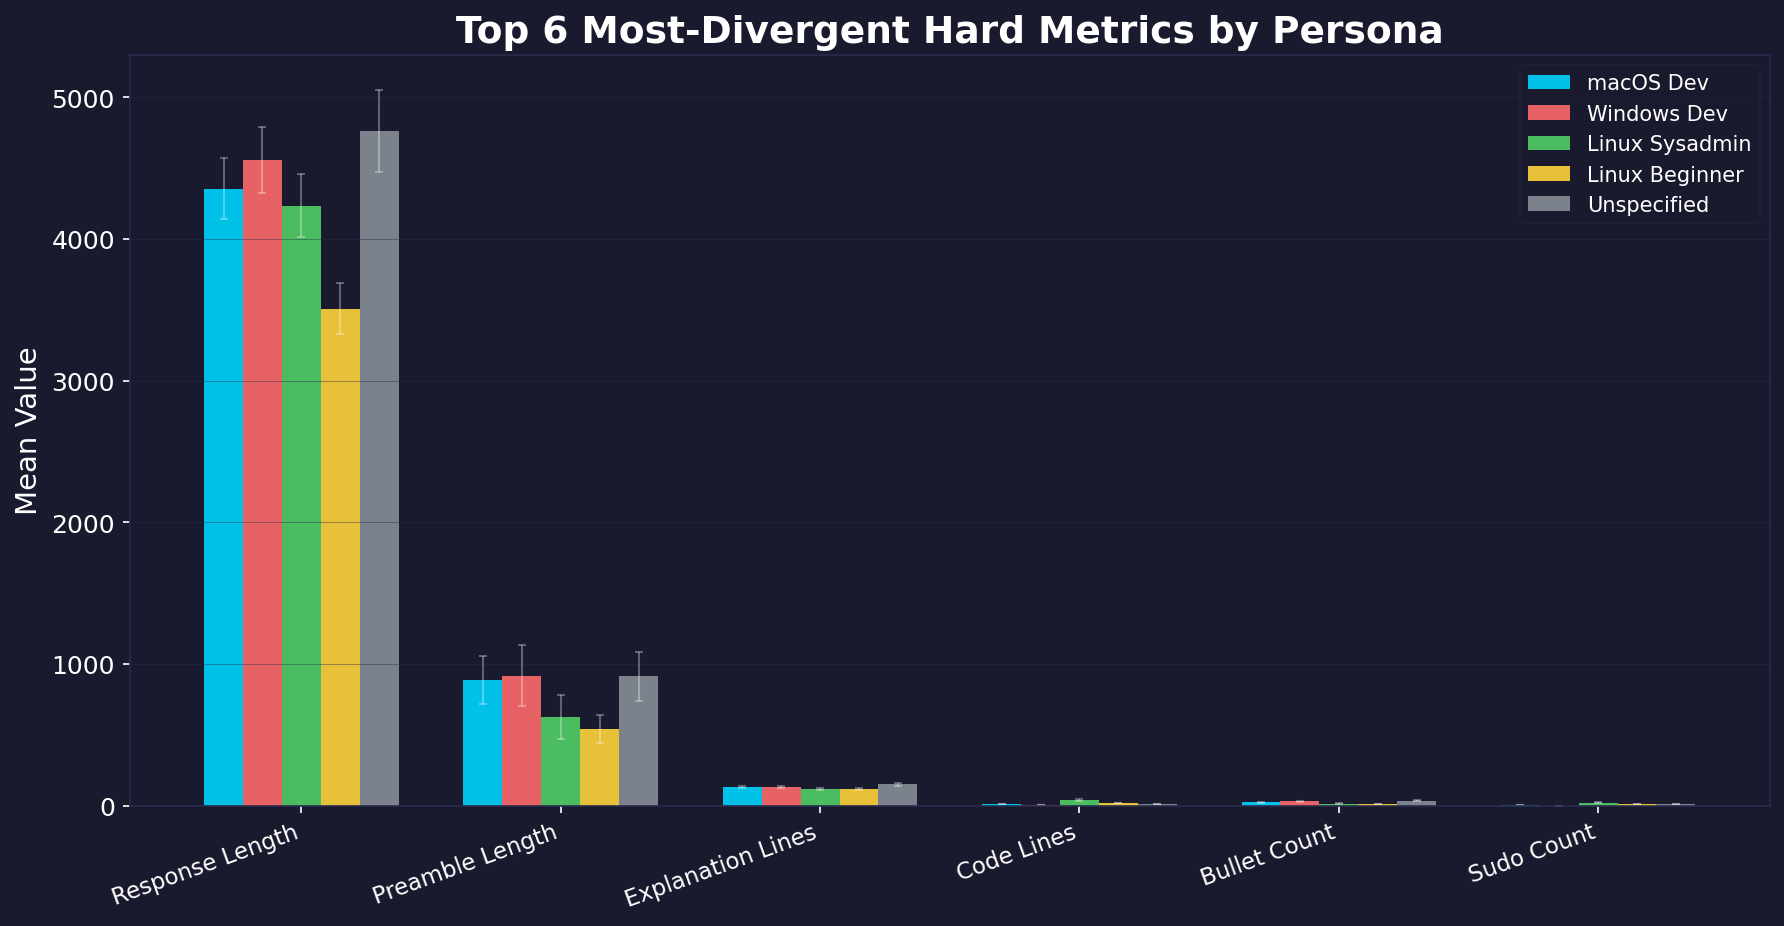
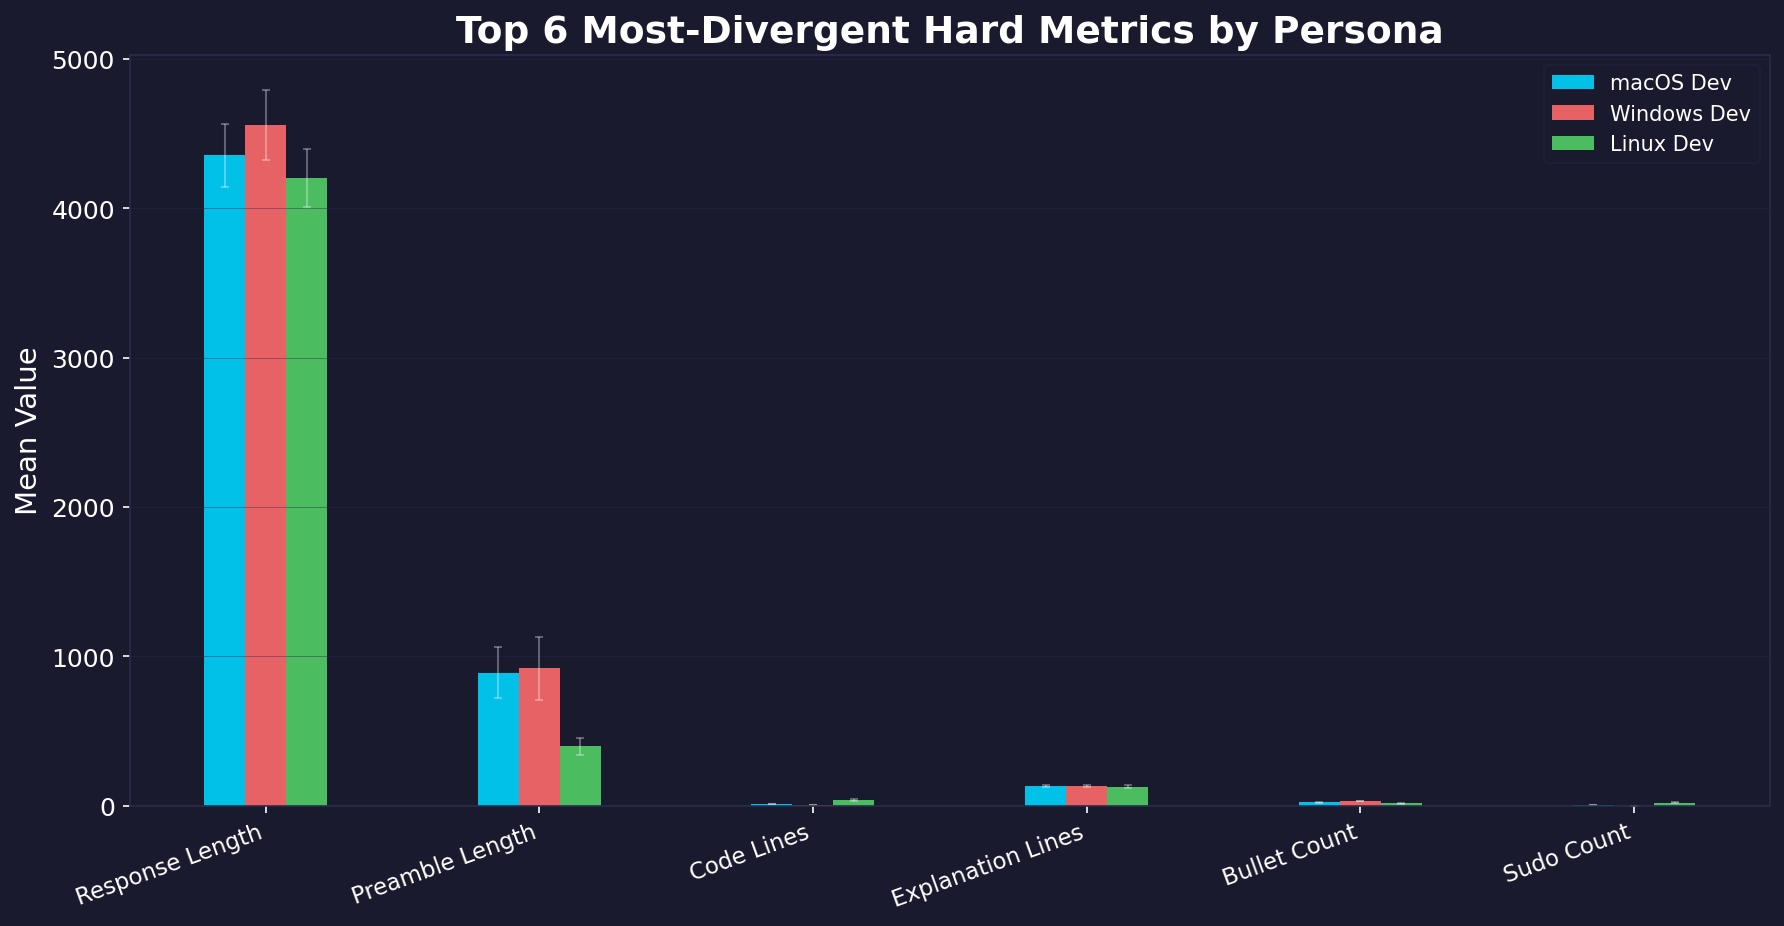
Replace linux_sysadmin/linux_beginner with linux_dev persona, update charts for 3-persona comparison

diff --git a/run_experiment.py b/run_experiment.py
@@ -1,21 +1,24 @@
-"""Run all persona x prompt x run combinations via async concurrent Mistral chat completions."""
+"""Run persona x prompt x run combinations via Mistral chat completions."""
 
-import asyncio
+import argparse
 import json
 import os
+import time
 
 from mistralai import Mistral
 
 from config import MODEL, MAX_TOKENS, TEMPERATURE, PERSONAS, PROMPTS, RUNS_PER_COMBO
 
-CONCURRENCY_LIMIT = 5
-MAX_RETRIES = 3
+MAX_RETRIES = 5
+DELAY = 0.5
 
 
-def build_requests() -> list[dict]:
-    """Build the list of request specs with custom_id and messages."""
+def build_requests(personas: dict | None = None) -> list[dict]:
+    """Build request specs. If personas is None, use all from config."""
+    if personas is None:
+        personas = PERSONAS
     requests = []
-    for persona_key, system_text in PERSONAS.items():
+    for persona_key, system_text in personas.items():
         for prompt_idx, prompt in enumerate(PROMPTS):
             for run_idx in range(RUNS_PER_COMBO):
                 custom_id = f"{persona_key}_{prompt_idx}_{run_idx}"
@@ -30,72 +33,93 @@ def build_requests() -> list[dict]:
     return requests
 
 
-async def call_with_retry(
-    client: Mistral,
-    spec: dict,
-    semaphore: asyncio.Semaphore,
-    progress: dict,
-) -> dict | None:
-    """Call chat.complete_async with semaphore gating and retry logic."""
-    async with semaphore:
-        for attempt in range(1, MAX_RETRIES + 1):
-            try:
-                response = await client.chat.complete_async(
-                    model=MODEL,
-                    max_tokens=MAX_TOKENS,
-                    temperature=TEMPERATURE,
-                    messages=spec["messages"],
-                )
-                content = response.choices[0].message.content
-                progress["done"] += 1
-                if progress["done"] % 50 == 0:
-                    print(f"[progress] {progress['done']}/{progress['total']} completions")
-                return {"custom_id": spec["custom_id"], "content": content}
-            except Exception as e:
-                if attempt < MAX_RETRIES:
-                    error_str = str(e)
-                    is_rate_limit = "429" in error_str or "rate" in error_str.lower() or "RBAC" in error_str
-                    wait = (2 ** attempt) * (5 if is_rate_limit else 1)
-                    print(f"[retry] {spec['custom_id']} attempt {attempt}/{MAX_RETRIES} "
-                          f"failed: {e} — retrying in {wait}s")
-                    await asyncio.sleep(wait)
-                else:
-                    print(f"[error] {spec['custom_id']} failed after {MAX_RETRIES} attempts: {e} — skipping")
-                    progress["done"] += 1
-                    if progress["done"] % 50 == 0:
-                        print(f"[progress] {progress['done']}/{progress['total']} completions")
-                    return None
-
-
-async def async_main() -> None:
-    os.makedirs("results", exist_ok=True)
-    output_path = "results/raw_responses.jsonl"
-
-    client = Mistral(api_key=os.environ["MISTRAL_API_KEY"])
-
-    requests = build_requests()
-    print(f"[init] Built {len(requests)} requests")
-
-    semaphore = asyncio.Semaphore(CONCURRENCY_LIMIT)
-    progress = {"done": 0, "total": len(requests)}
-
-    tasks = [call_with_retry(client, spec, semaphore, progress) for spec in requests]
-    results = await asyncio.gather(*tasks)
-
-    count = 0
-    with open(output_path, "w") as f:
-        for result in results:
-            if result is not None:
-                f.write(json.dumps(result) + "\n")
-                count += 1
-
-    print(f"[results] Wrote {count} lines to {output_path}")
-    if count < len(requests):
-        print(f"[warn] {len(requests) - count} requests failed and were skipped")
+def call_with_retry(client: Mistral, spec: dict) -> dict | None:
+    """Call chat.complete with retry logic. Returns result dict or None."""
+    for attempt in range(1, MAX_RETRIES + 1):
+        try:
+            response = client.chat.complete(
+                model=MODEL,
+                max_tokens=MAX_TOKENS,
+                temperature=TEMPERATURE,
+                messages=spec["messages"],
+            )
+            content = response.choices[0].message.content
+            return {"custom_id": spec["custom_id"], "content": content}
+        except Exception as e:
+            if attempt < MAX_RETRIES:
+                backoff = 2 ** attempt
+                print(f"[retry] {spec['custom_id']} attempt {attempt}/{MAX_RETRIES}: {e} — waiting {backoff}s")
+                time.sleep(backoff)
+            else:
+                print(f"[error] {spec['custom_id']} failed after {MAX_RETRIES} attempts: {e}")
+                return None
+    return None
 
 
 def main() -> None:
-    asyncio.run(async_main())
+    parser = argparse.ArgumentParser()
+    parser.add_argument("--persona", type=str, help="Run only this persona (must be a key in PERSONAS)")
+    args, _ = parser.parse_known_args()
+
+    os.makedirs("results", exist_ok=True)
+    output_path = "results/raw_responses.jsonl"
+
+    # Determine which personas to run
+    if args.persona:
+        if args.persona not in PERSONAS:
+            print(f"[error] Unknown persona: {args.persona}. Available: {list(PERSONAS.keys())}")
+            return
+        personas = {args.persona: PERSONAS[args.persona]}
+    else:
+        personas = None  # all
+
+    client = Mistral(api_key=os.environ["MISTRAL_API_KEY"])
+    requests = build_requests(personas)
+    print(f"[init] Built {len(requests)} requests")
+
+    # If filtering by persona, load existing data and strip old entries for that persona
+    existing_lines = []
+    if args.persona and os.path.exists(output_path):
+        with open(output_path) as f:
+            for line in f:
+                line = line.strip()
+                if not line:
+                    continue
+                entry = json.loads(line)
+                # Keep lines that don't belong to the persona we're replacing
+                parts = entry["custom_id"].split("_")
+                entry_persona = "_".join(parts[:-2])
+                if entry_persona != args.persona:
+                    existing_lines.append(line)
+        print(f"[merge] Keeping {len(existing_lines)} existing lines, replacing {args.persona}")
+
+    # Run requests sequentially
+    new_lines = []
+    errors = 0
+    start_time = time.time()
+    for i, spec in enumerate(requests):
+        result = call_with_retry(client, spec)
+        if result is not None:
+            new_lines.append(json.dumps(result))
+            print(f"[{i + 1}/{len(requests)}] ✓ {spec['custom_id']} ({len(result['content'])} chars)")
+        else:
+            errors += 1
+            print(f"[{i + 1}/{len(requests)}] ✗ {spec['custom_id']} FAILED")
+        if (i + 1) % 50 == 0:
+            elapsed = time.time() - start_time
+            rate = (i + 1) / elapsed
+            remaining = (len(requests) - i - 1) / rate
+            print(f"[progress] {i + 1}/{len(requests)} | {errors} errors | "
+                  f"{elapsed:.0f}s elapsed | ~{remaining:.0f}s remaining")
+        time.sleep(DELAY)
+
+    # Write output
+    all_lines = existing_lines + new_lines
+    with open(output_path, "w") as f:
+        for line in all_lines:
+            f.write(line + "\n")
+
+    print(f"[results] Wrote {len(all_lines)} total lines to {output_path} ({len(new_lines)} new, {errors} errors)")
 
 
 if __name__ == "__main__":

diff --git a/visualize.py b/visualize.py
@@ -12,22 +12,18 @@ import os
 # Constants
 # ---------------------------------------------------------------------------
 
-PERSONAS = ["macos_dev", "windows_dev", "linux_sysadmin", "linux_beginner", "unspecified"]
+PERSONAS = ["macos_dev", "windows_dev", "linux_dev"]
 
 PERSONA_COLORS = {
     "macos_dev": "#00d4ff",
     "windows_dev": "#ff6b6b",
-    "linux_sysadmin": "#51cf66",
-    "linux_beginner": "#ffd43b",
-    "unspecified": "#868e96",
+    "linux_dev": "#51cf66",
 }
 
 PERSONA_LABELS = {
     "macos_dev": "macOS Dev",
     "windows_dev": "Windows Dev",
-    "linux_sysadmin": "Linux Sysadmin",
-    "linux_beginner": "Linux Beginner",
-    "unspecified": "Unspecified",
+    "linux_dev": "Linux Dev",
 }
 
 BG_COLOR = "#1a1a2e"

diff --git a/config.py b/config.py
@@ -3,8 +3,7 @@
 PERSONAS = {
     "macos_dev": "You are an experienced macOS developer.",
     "windows_dev": "You are an experienced Windows developer.",
-    "linux_sysadmin": "You are an experienced Linux sysadmin.",
-    "linux_beginner": "You are a Linux beginner.",
+    "linux_dev": "You are an experienced Linux developer.",
     "unspecified": "",
 }
 
